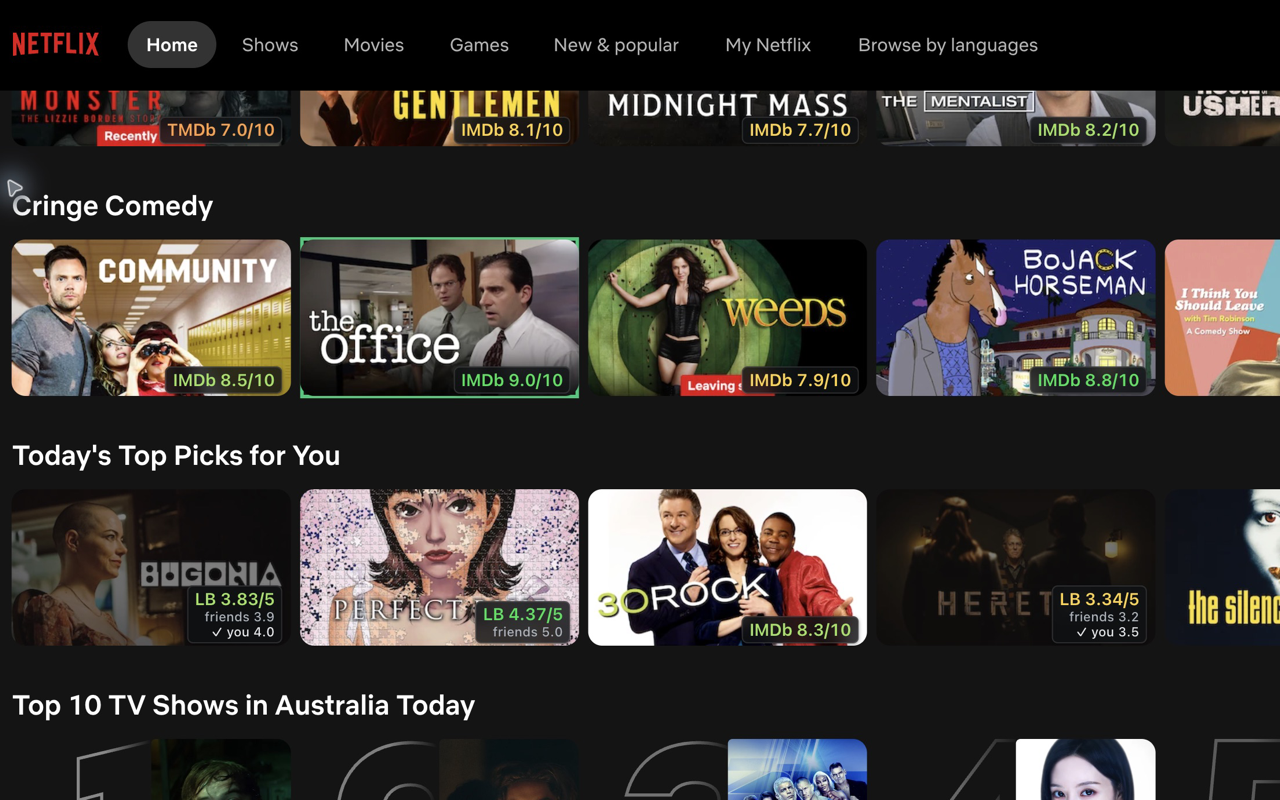
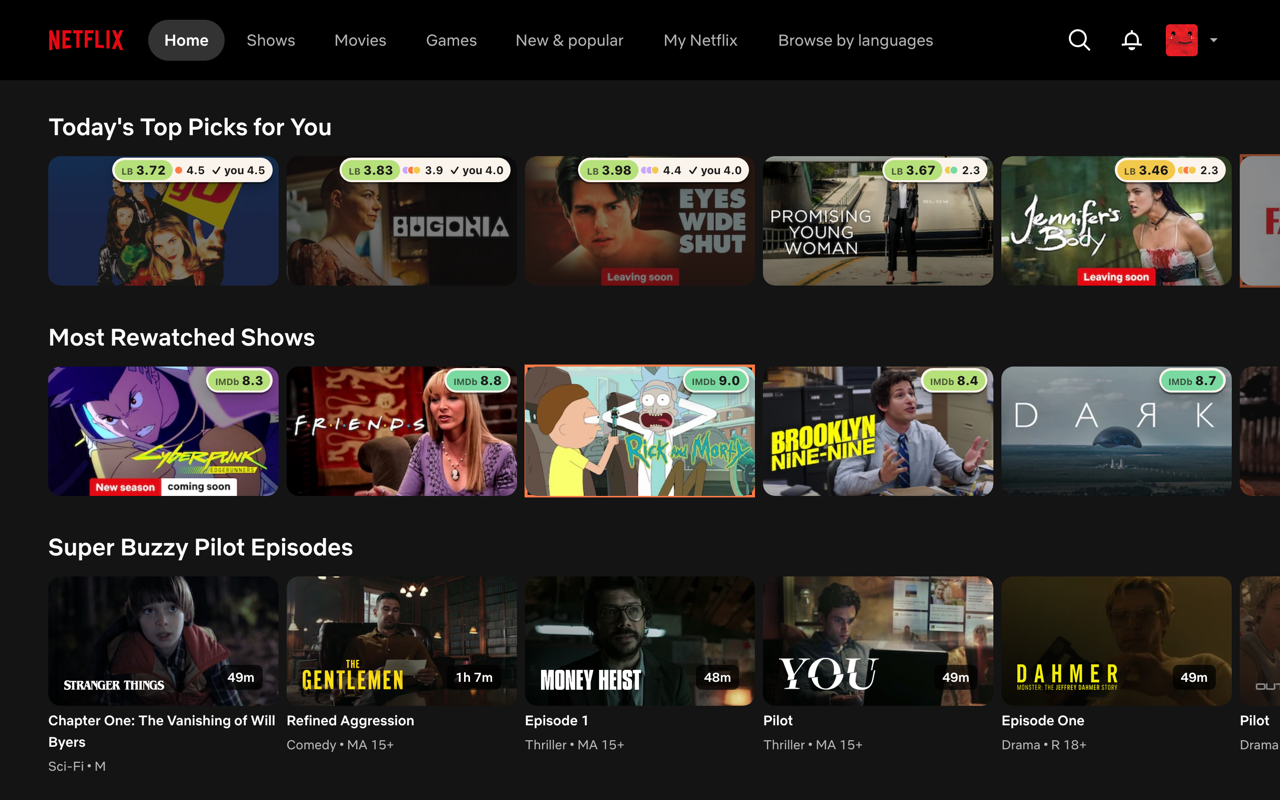
Place rating badges clear of the labels baked into Netflix and Prime artwork
Netflix draws its "Recently added" and "Leaving soon" tags into the bottom of
the boxart, and Prime composites its prime or channel logo into the artwork's
bottom-right corner, so the DOM check from the last commit never found them.

Netflix badges now sit in the clear top-right corner. On Prime the image URL
says where the logo was composited, so the badge sits just above it. Max is
unchanged. Retakes the Netflix store screenshot with the new placement.

Claude-Session: https://claude.ai/code/session_01FeK25aTVYGXvLZdeNPxoeu

diff --git a/src/content-script/shared-functions.ts b/src/content-script/shared-functions.ts
@@ -946,33 +946,16 @@ function fillBadge(div: HTMLElement, data: MovieInfo, prefix: string, tmdbColor:
 	div.setAttribute("aria-label", tooltip.join(". "))
 }
 
-// The sites put their own labels in a card's bottom corners (Netflix's "Leaving soon" tag, the Prime logo).
-// When one sits under the badge, lift the badge to just above it instead of covering it.
-function liftAboveCardLabels(badge: HTMLElement) {
-	const host = badge.parentElement
-	if (!badge.isConnected || !host) return
-	const hostRect = host.getBoundingClientRect()
-	const rect = badge.getBoundingClientRect()
-	if (!rect.width || !hostRect.height) return
-	let top = rect.bottom
-	for (const element of Array.from(host.querySelectorAll("*"))) {
-		if (badge.contains(element) || element.closest(".sb-card-rating")) continue
-		const box = element.getBoundingClientRect()
-		// skip the artwork and anything else card-sized
-		if (!box.width || !box.height || box.width * box.height > hostRect.width * hostRect.height * 0.25) continue
-		if (box.right <= rect.left || box.left >= rect.right || box.bottom <= rect.top || box.top >= rect.bottom) continue
-		const isLabel =
-			element instanceof SVGElement ||
-			element.tagName === "IMG" ||
-			Array.from(element.childNodes).some((node) => node.nodeType === Node.TEXT_NODE && node.textContent?.trim())
-		if (!isLabel) continue
-		const style = getComputedStyle(element)
-		if (style.visibility === "hidden" || style.opacity === "0") continue
-		top = Math.min(top, box.top)
-	}
-	const bottom = hostRect.bottom - top
-	// a label more than halfway up the card isn't a corner label; leave the badge where it is
-	if (top < rect.bottom && bottom < hostRect.height * 0.5) badge.style.bottom = `calc(${bottom}px + 0.3em)`
+// Prime composites its own "prime" or channel logo into the artwork's bottom-right corner, and the image URL
+// says where: _CLs|W,H|...channels-logo...|...+x,y,w,h. Returns how far up the card the logo reaches (0 when none).
+function primeLogoHeight(container: HTMLElement) {
+	const img = container.querySelector("img")
+	if (!img) return 0
+	const src = decodeURIComponent(img.currentSrc || img.src || img.srcset)
+	const match = /_CLs\|\d+,(\d+)\|[^|]*channels-logo[^|]*\|(?:\d+,\d+,\d+,\d+\+)*\d+,(\d+),\d+,\d+/.exec(src)
+	if (!match) return 0
+	const height = Number(match[1])
+	return (height - Number(match[2])) / height
 }
 
 async function setRatingOnCard(card: HTMLElement, data: MovieInfo, title: string) {
@@ -1011,7 +994,8 @@ async function setRatingOnCard(card: HTMLElement, data: MovieInfo, title: string
 	// popcorn chip: score pill first, friends and your status beside it; wraps on narrow cards
 	Object.assign(div.style, {
 		position: "absolute",
-		bottom: "0.3em",
+		// Netflix draws its "Recently added" and "Leaving soon" tags into the bottom of the boxart; the top-right is clear
+		...(isNetflix ? { top: "0.3em" } : { bottom: "0.3em" }),
 		right: isNetflix ? "calc(0.2vw + 0.3em)" : "0.3em",
 		maxWidth: "calc(100% - 0.6em)",
 		boxSizing: "border-box",
@@ -1101,14 +1085,11 @@ async function setRatingOnCard(card: HTMLElement, data: MovieInfo, title: string
 		if (card.dataset.cardTitle) position = card?.firstChild?.firstChild as HTMLElement
 		else if (card.querySelector('div[data-testid="title-metadata-main"]'))
 			position = card.querySelector('div[data-testid="title-metadata-main"]') as HTMLElement
+		const logoHeight = position ? primeLogoHeight(position) : 0
+		if (logoHeight) div.style.bottom = `calc(${(logoHeight * 100).toFixed(1)}% + 0.2em)`
 		position?.appendChild(div)
 		if (isDimmed(data, vote_count < 50)) position?.appendChild(greyOverlay)
 		// card.closest("li")?.style.setProperty("opacity", getTransparencyForRating(data?.score, vote_count < 50))
-	}
-	if (div.isConnected) {
-		requestAnimationFrame(() => liftAboveCardLabels(div))
-		// some sites draw their card labels a moment after the artwork
-		setTimeout(() => liftAboveCardLabels(div), 1000)
 	}
 	if (div.isConnected && (isNetflix || isHBO || isPrimeVideo)) {
 		searchSorting.setRating(card, score)
